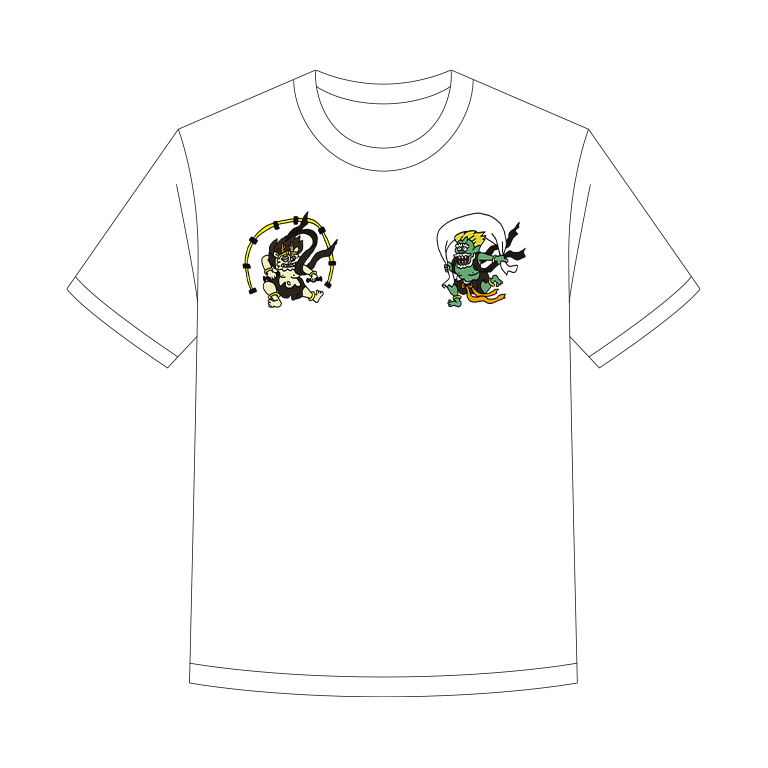
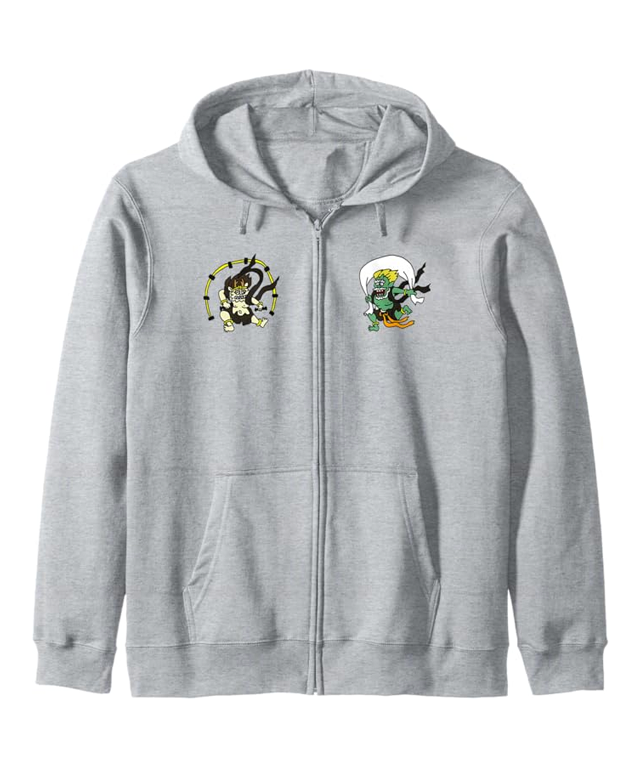
Add ZIP hoodie product #1: images, modelImage, title/description, Amazon link; update YSJ brand

diff --git a/app/designshelf/brands/yuru-style-japan/page.tsx b/app/designshelf/brands/yuru-style-japan/page.tsx
@@ -76,17 +76,18 @@ export default function YuruStyleJapan() {
   const products: Product[] = [
     {
       id: 1,
-      title: "風神雷神 デフォルメ神キャラ ポップアートファッションデザイン 和風",
+      title: "風神雷神 ジップパーカー",
       brand: "ゆるスタイル・ジャパン",
       image: "/designshelf/images/tee1.png",
       designImage: "/designshelf/images/tee1_design.png",
+      modelImage: "/designshelf/images/tee1_model.png",
       price: "¥2,300",
-      amazonLink: "https://amzn.to/45hj1Gl",
+      amazonLink: "https://amzn.to/47HCMYw",
       features: [
         "風神と雷神を可愛くデフォルメしたキャラクターアート。伝統モチーフをユーモラスに再構築した現代和風デザイン。",
         "左右対称の配置とコンパクトな構図が印象的。ミニマルながらアート性が高く、ストリート系やポップアートファッションに最適。"
       ],
-      description: "日本の伝統的な風神・雷神を、現代のポップアートスタイルで可愛くデフォルメしたデザイン。威厳ある神々を親しみやすいキャラクターとして再構築し、和風テイストを保ちながらもモダンなファッションアイテムとして仕上げました。"
+      description: "このデザインは、日本の伝統美術に登場する『風神』と『雷神』をベースに、親しみやすいデフォルメキャラクターとして表現した和風ポップアートです。軽妙な表情とポップな色使いが特徴で、古典的な神話モチーフを現代的なスタイルへと再解釈しています。『風神雷神デザイン』『ポップアートファッション』など複数のキーワードに親和性が高く、日常着としてもギフトとしても魅力的なビジュアルアートです。"
     },
     {
       id: 2,

diff --git a/app/designshelf/page.tsx b/app/designshelf/page.tsx
@@ -176,17 +176,18 @@ export default function DesignShelf() {
     },
     {
       id: 1,
-      title: "風神雷神 デフォルメ神キャラ ポップアートファッションデザイン 和風",
+      title: "風神雷神 ジップパーカー",
       brand: "ゆるスタイル・ジャパン",
       image: "/designshelf/images/tee1.png",
       designImage: "/designshelf/images/tee1_design.png",
+      modelImage: "/designshelf/images/tee1_model.png",
       price: "¥2,300",
-      amazonLink: "https://amzn.to/45hj1Gl",
+      amazonLink: "https://amzn.to/47HCMYw",
       features: [
         "風神と雷神を可愛くデフォルメしたキャラクターアート。伝統モチーフをユーモラスに再構築した現代和風デザイン。",
         "左右対称の配置とコンパクトな構図が印象的。ミニマルながらアート性が高く、ストリート系やポップアートファッションに最適。"
       ],
-      description: "日本の伝統的な風神・雷神を、現代のポップアートスタイルで可愛くデフォルメしたデザイン。威厳ある神々を親しみやすいキャラクターとして再構築し、和風テイストを保ちながらもモダンなファッションアイテムとして仕上げました。"
+      description: "このデザインは、日本の伝統美術に登場する『風神』と『雷神』をベースに、親しみやすいデフォルメキャラクターとして表現した和風ポップアートです。軽妙な表情とポップな色使いが特徴で、古典的な神話モチーフを現代的なスタイルへと再解釈しています。『風神雷神デザイン』『ポップアートファッション』など複数のキーワードに親和性が高く、日常着としてもギフトとしても魅力的なビジュアルアートです。"
     },
     {
       id: 2,
